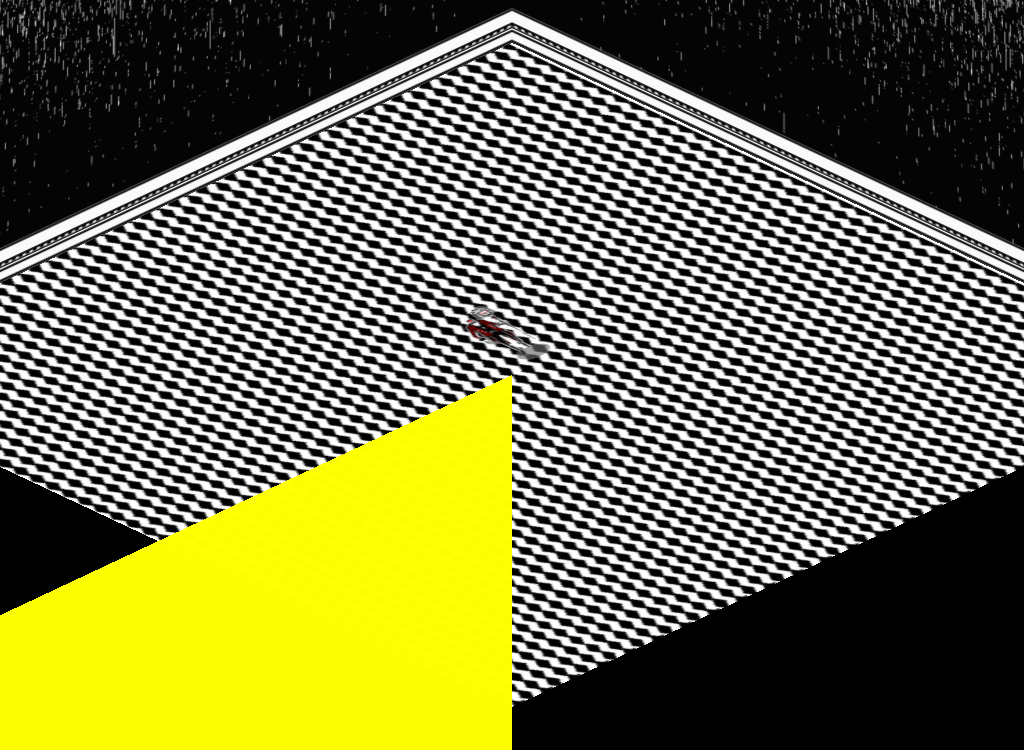
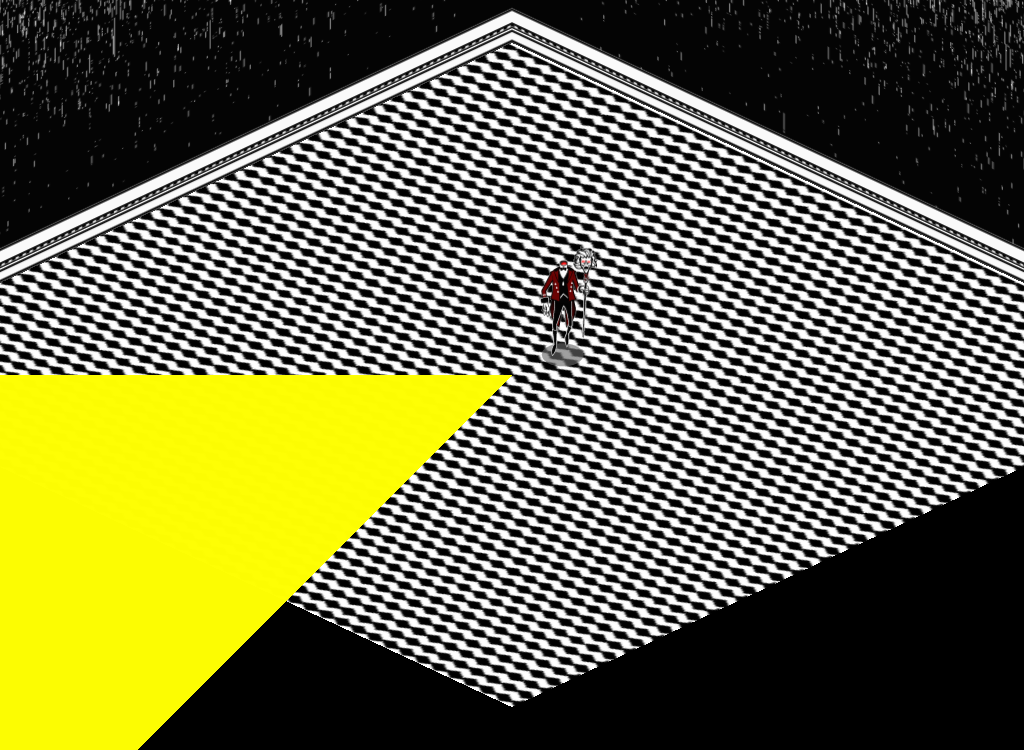
fix: err mah gerd, furniture is standing up
tdd: green

Changed region(s): [[0.0, 0.4907, 0.5, 1.0], [0.4375, 0.3067, 0.5938, 0.4907]]

diff --git a/house/room.go b/house/room.go
@@ -297,7 +297,32 @@ func (room *Room) renderDrawables(base_alpha byte, drawables []Drawable, los_tex
 		dx, _ := d.Dims()
 
 		logging.Debug("going to render", "near_x,near_y,dims", []any{near_x, near_y, dx})
-		d.Render(mathgl.Vec2{X: near_x, Y: near_y}, float32(dx))
+
+		step := &mathgl.Mat4{}
+		fixup := &mathgl.Mat4{}
+		fixup.Identity()
+
+		// Step 4, undo the initial translation
+		step.Translation(near_x, near_y, 0)
+		fixup.Multiply(step)
+
+		// Step 3, rotate about (-1, 1, 0) to undo the floor's "tilt" rotation.
+		axis := mathgl.Vec3{X: -1, Y: 1, Z: 0}
+		step.RotationAxisAngle(axis, 62*math.Pi/180)
+		fixup.Multiply(step)
+
+		// Step 2, rotate about Z to undo the floor's Z rotation.
+		step.RotationZ(-math.Pi / 4.0)
+		fixup.Multiply(step)
+
+		// Step 1, translate the viewer to move the target object to (0, 0).
+		step.Translation(-near_x, -near_y, 0)
+		fixup.Multiply(step)
+
+		render.WithMultMatrixInMode(fixup, render.MatrixModeModelView, func() {
+			logging.Debug("glstate", "this", debug.GetGlState())
+			d.Render(mathgl.Vec2{X: near_x, Y: near_y}, float32(dx))
+		})
 	}
 }
 
@@ -732,7 +757,7 @@ func (room *Room) Render(roomMats perspective.RoomMats, zoom float32, base_alpha
 		})
 	})
 
-	render.WithMultMatrixInMode(&roomMats.Standup, render.MatrixModeModelView, func() {
+	render.WithMultMatrixInMode(&roomMats.Floor, render.MatrixModeModelView, func() {
 		gl.PushAttrib(gl.CURRENT_BIT)
 		defer gl.PopAttrib()
 		do_color(255, 255, 255, 255)
